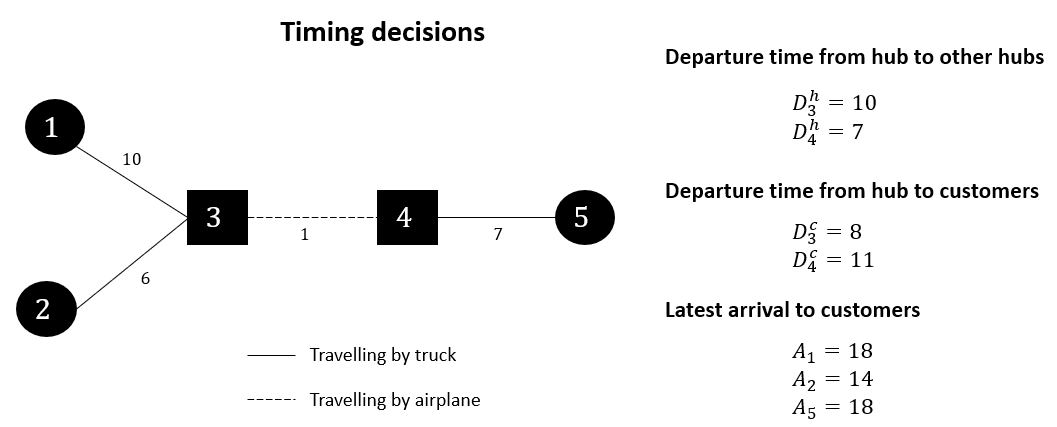
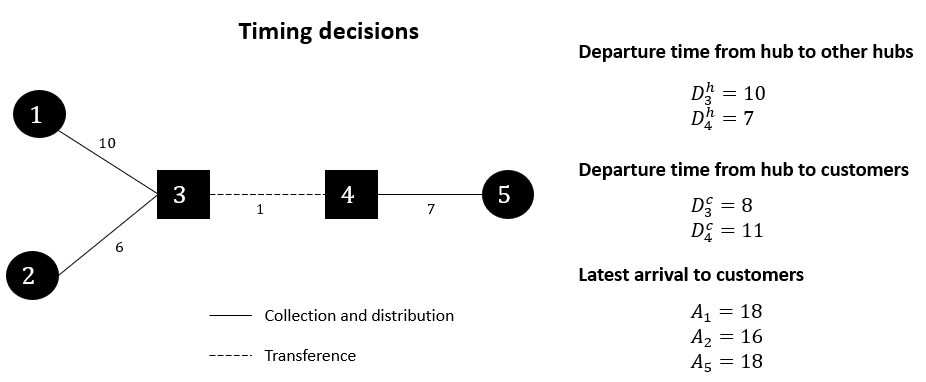
turkey network ready

diff --git a/_projects/07_network_design.md b/_projects/07_network_design.md
@@ -10,22 +10,95 @@ This is a personal project inspired by professor and friend Armin Lüer <https:/
 
 Repository here: <https://github.com/fjzs/turkey_network>
 
-## **1 Problem Definition**
-Hubs location problems fall within the broad category of network design problems. A hub is tipically used passenger
-transportaion, cargo industry, mail delivery (before e-mail was invented though), among others. The role of a hub is to
-consolidate the flow from multiple sources to leverage economies of scale in the transportation.
+## **1 Introduction**
+
+##### **1.1 What is a hub location problem?**
+Hubs location problems fall within the broad category of network design problems, where a private or public firm has the task of producing/moving and/or delivering its products efficiently to its customer through some facilities. In particular, a hub is a type of facility used to consolidate the flow from multiple sources to leverage economies of scale in the transportation. These are used in multiple situations, such as in passenger transportation :walking: (both in land and air), cargo :truck:, postal mail delivery :mailbox: (before e-mail was invented though), public services :fire_engine::police_car::ambulance:, and more.
+
+In this project there are 3 types of arcs where different logistic activities occur: collection, transference and distribution, which you can see in the next figure. I am going to assume that small trucks are used for collection and distribution activities, and that big and faster trucks are used for transference activities.
+
+<div class="row"><div class="col-sm mt-3 mt-md-0 text-center">
+    {%
+        include figure.html path="assets/img/network_design/arcs.png" 
+        class = "img-fluid rounded z-depth-1"
+        width = 700
+        caption = "This hub location problem contains 3 types of arcs. Collection is related to the delivery of cargo from origin nodes to hubs. Transference is related to the movement of cargo between hubs. Distribution is related to the delivery of cargo from hubs to destination hubs. In the transference arc is where the economy of scale is achieved, both in speed and cost by a fixed factor."
+    %}
+</div></div>
 
 
-## **2 Methodology**
+##### **1.2 Characteristics of our problem**
+A freight cargo company wants to enter to the Turkey cargo market, providing service to all the 81 provinces in the country. We assume there are other companies in the market, and so to compete properly, this new company will provide a guaranteed time delivery service for all origin-destination pairs. To do this it will localize some hubs, assign cities to hubs and determine which hubs are going to be connected to each other. The demand is given by all pairs of origin-destination cities, and the proposed network has to comply with:
+* Cargo must be transported through hubs, in other words, it is not allowed to transport directly between nodes that are not hubs.
+* There is no capacity constraints in the hubs or in the arcs.
+* Each origin-destination flow must pass through at least 1 and maximum 2 hubs.
+* Each customer must be assigned to a single hub for simplicity of management.
+* The latest arrival time to from every origin to every destination has to be at most $$\beta$$ hours.
+* Every hub, before transporting cargo to other hubs, must wait for all its assignated customers to bring their cargo to consolidate. In other words, the departuring time of a hub when going to other hub is equivalent to the latest arrival of cargo from its assignated customers.
+* Every hub, before delivering cargo to its customers, must wait for all incoming cargo from other hubs to consolidate. In other words, the departuring time of a hub when going to its customers is equivalent to the latest arrival of cargo from other hubs.
+* There is no time needed to consolidate cargo.
+* The demand is fixed and inelastic to the service level offered.
+* For simplicity, I will assume that only the top $$k=20$$ largest provinces are available to locate hubs.
 
-## **3 Optimization Model**
+The costs to consider are:
+* Fixed cost of locating a hub in a particular province.
+* Fixed cost of establishing a connection between 2 hubs or between a province and a hub.
+* Cost of transporting cargo on each arc of the network (collection, transfer and distribution) per unit of distance.
+* Economy of scale factor $$\alpha$$ of using large and specialized trucks between hubs (for instance 10% cheaper and 10% faster).
+
+Turkey is an interesting case of study because:
+* There are no clear simmetries in the demand (north v/s south, or east v/s west)
+* There are big nodes of supply/demand distributed across the country (the biggest node, for instance, is Istanbul located in the northwest)
+* The country has a reasonable infrastructure for land transportation, allowing the possibility of every province to be connected to the network.
+
+In the following picture you can see the 81 provinces of Turkey.
+<div class="row"><div class="col-sm mt-3 mt-md-0 text-center">
+    {%
+        include figure.html path="assets/img/network_design/turkey_provinces.png" 
+        class = "img-fluid rounded z-depth-1"
+        width = 700
+        caption = "Source: Tan and Kara (2007)"
+    %}
+</div></div>
+
+I discretized this continous representation into a set of nodes, all connected to each other by the highways of the country. Each node representing the province is located at the major city of that province. In the following diagram you can see the discretized representation of the country:
+
+<div class="row"><div class="col-sm mt-3 mt-md-0 text-center">
+    {%
+        include figure.html path="assets/img/network_design/turkey_map.png" 
+        class = "img-fluid rounded z-depth-1"
+        width = 700
+        caption = "This illustration shows the borders of Turkey along with its 81 major provinces. The size of each node is proportional to the population of that province. Source: own work"
+    %}
+</div></div>
 
 
-### Sets
+##### **1.3 Where does the data come from?**
+* The distances between each pair of provinces was taken from Tan and Kara (2007), although Google Maps could have been used as well.
+* The economy of scale factor $$\alpha$$ was taken by a survey from Tan and Kara (2007), where they interviewed major freight companies in Turkey. The value is roughly 0.9 (although they only used it for discounting the transportation cost, and I am going to use it to decrease the speed of trucks as well)
+* The flow between each pair of provinces is given by Çetiner et al. (2007), which is proportional to the population of both provinces
+* The fixed cost for stablishing a link between hubs was taken by Alumur et al (2009), which is proportional to the distance and inversely proportional to the flow between them.
+* The fixed cost of stablishing a hub was taken from Alumur et al (2009).
+
+
+##### **1.4 Questions to answer**
+The purpose of this project is to answer these questions:
+* What is the optimal network design and cost structure given a time delivery service $$\beta$$?
+* How does that solution change as $$\beta$$ changes?
+* How does that solution change as the economy of scale factor $$\alpha$$ changes?
+
+
+## **2 Optimization Model**
+The optimization model I designed is the fusion between Tan and Kara (2006) "A Hub Covering Model for Cargo Delivery Systems" and Ernst and Krishnamoorthy (1996) "Efficient algorithms for the uncapacitated single allocation p-Hub median problem". It is also related to Alumur et al (2009) "The design of single allocation incomplete hub networks".
+* Tan and Kara (2006) take care of the delivery time modelling without transportation and fixed costs.
+* Ernst and Krishnamoorthy (1996) take care of the network modelling without service levels.
+
+I modelled the problem as a **multicommodity flow problem**, where each origin is a commodity. Just as in Alumur et al (2009), this model has $$O(n^2)$$ binary variables and $$O(n^3)$$ continuous variables, but I don't fix the number of hubs to locate or the number of links to stablish a priori as Alumur et al (2009) did.
+
+##### **2.1 Sets**
 $$N$$: set of nodes
 
-
-### Parameters
+##### **2.2 Parameters**
 $$w_{ij}$$: flow from node $$i$$ to node $$j$$ (boxes)
 
 $$s_i = \sum_{j \in N}w_{ij}$$: supply of node $$i$$ (boxes)
@@ -34,24 +107,20 @@ $$h_i$$: fixed cost of locating a hub at node $$i$$ ($)
 
 $$d_{ij}$$: distance between nodes $$i$$ and $$j$$ (km)
 
-$$v_t$$: velocity of trucks (km/h)
+$$v$$: velocity of trucks (km/h)
 
-$$v_p$$: velocity of airplanes (km/h)
-
-$$tt_{ij} = d_{ij} / v_t$$: travel time by truck between nodes $$i$$ and $$j$$ (h)
-
-$$tp_{ij} = d_{ij} / v_p$$: travel time by plane between nodes $$i$$ and $$j$$ (h)
+$$t_{ij} = d_{ij} / v$$: travel time by regular (in collection and distribution activities) truck between nodes $$i$$ and $$j$$ (h)
 
 $$f_{ij}$$: fixed cost of using arc $$(i,j)$$ ($)
 
 $$c$$: unit cost of transporting 1 box 1 km ($/box-km)
 
-$$\alpha$$: cost factor of transfer activities between hubs (unitless)
+$$\alpha$$: economy of scale factor in transfer activities between hubs (unitless)
 
 $$\beta$$: maximum time delivery between any origin and destination (h)
 
 
-### Variables
+##### **2.3 Variables**
 $$Z_{ik}$$: 1 if node $$i$$ is assigned to hub $$k$$ else 0, $$\forall i \in N, k \in N$$ (unitless)
 
 $$F_{ik}$$: flow from node $$i$$ to hub $$k$$, $$\forall i \in N, k \in N$$ (boxes)
@@ -69,7 +138,7 @@ $$D^{c}_k$$: departure time from hub $$k$$ to transport cargo to customers, $$\f
 $$A_j$$: latest arrival time to destination $$j$$, $$\forall j \in N$$ (h)
 
 
-### Objective Function
+##### **2.4 Objective Function**
 Location hubs cost:
 
 $$\sum_{i \in N} Z_{ii} \cdot h_i$$
@@ -92,7 +161,7 @@ Transportation cost (distribution activities):
 $$\sum_{i \in N}\sum_{l \in N}\sum_{j \in N} X_{ilj} \cdot d_{lj}\cdot c$$
 
 
-### Constraints
+##### **2.5 Constraints**
 
 (1) Assign every node to a single hub:
 
@@ -150,22 +219,22 @@ $$2R_{kl} \leq Z_{kk} + Z_{ll}$$
 $$\forall k \in N, l \in N: k \neq l$$
 
 
-(9) Plane departuring from hub $$k$$ to other hubs must wait for cargo from customers:
+(9) Truck departuring from hub $$k$$ to other hubs must wait for cargo from customers:
 
-$$D^{h}_k \geq tt_{ik} \cdot Z_{ik}$$
+$$D^{h}_k \geq t_{ik} \cdot Z_{ik}$$
 
 $$\forall i \in N, k \in N: i \neq k$$
     
 
-(10) Truck departure time from hub $$l$$ to its customers must wait for incoming air cargo from other hubs:
+(10) Truck departure time from hub $$l$$ to its customers must wait for incoming cargo from other hubs:
 
 Original non-linear:
 
-$$D^{c}_l \geq (D^{h}_k + tp_{kl}) \cdot R_{kl}$$
+$$D^{c}_l \geq (D^{h}_k + t_{kl} \cdot \alpha) \cdot R_{kl}$$
 
 When linearized:
 
-$$D^{c}_{l} \geq D^{h}_k + tp_{kl} - M(1 - R_{kl})$$
+$$D^{c}_{l} \geq D^{h}_k + t_{kl} \cdot \alpha - M(1 - R_{kl})$$
 
 Where $$M$$ is a large enough number, in this case $$M = \beta$$.
 
@@ -174,20 +243,20 @@ $$\forall k \in N, l \in N$$
 
 (11) Truck departure time from hub $$l$$ to its customer $$j$$ must wait from all customers to consolidate cargo (this is required for the case when a single hub is located to the network).
 
-$$D^{c}_{l} \geq tt_{jl} \cdot Z_{jl}$$
+$$D^{c}_{l} \geq t_{jl} \cdot Z_{jl}$$
 
 $$\forall j \in N, l \in N$$
 
 
-(12) Latest arrival to customer $$j$$ depends on the latest airplane arriving to its assigned hub $$l$$:
+(12) Latest arrival to customer $$j$$ depends on the latest truck arriving to its assigned hub $$l$$:
 
 Original non-linear:
 
-$$ A_j \geq (D^{c}_{l} + tt_{lj}) \cdot Z_{jl}$$
+$$ A_j \geq (D^{c}_{l} + t_{lj}) \cdot Z_{jl}$$
 
 When linearized:
 
-$$ A_j \geq D^{c}_{l} + tt_{lj} - M(1 - Z{jl})$$
+$$ A_j \geq D^{c}_{l} + t_{lj} - M(1 - Z{jl})$$
 
 Where $$M$$ is a large enough number, in this case $$M = \beta$$.
 
@@ -201,7 +270,7 @@ $$A_j \leq \beta$$
 $$\forall j \in N$$ 
 
 
-### Toy example to visualize variables relations
+##### **2.6 Toy example to visualize variables relations**
 
 Let's look at a little example of **5 nodes** to understand visually how they interact. We will take a look at 3 types of variables: hub decisions, flow decisions and timing decisions. In the figure below we start with the hub decisions.
 
@@ -225,16 +294,109 @@ Now we can move forward with flow decisions. Remember the flow is modeled as a m
     %}
 </div></div>
 
-Finally we can see the timing decisions in the next figure. From this example we can conclude that the fastest delivery time is 18 time units.
+Finally we can see the timing decisions in the next figure. From this example we can conclude that the latest delivery service level time is 18 time units.
 
 <div class="row"><div class="col-sm mt-3 mt-md-0 text-center">
     {%
         include figure.html path="assets/img/network_design/example_timing.png" 
         class = "img-fluid rounded z-depth-1"
         width = 1500
-        caption = "In this diagram you can see how the timings are organized. Recall that the freight between non-hub nodes and hubs is supposed to be done in a cheap and slow mode (like trucks), and the freight between hubs in an expensive and fast mode (like airplanes). The number on each arc represent the time needed to traverse it by the defined transportation mode."
+        caption = "In this diagram you can see how the timings are organized. Recall that the freight between non-hub nodes and hubs is supposed to be done in regular trucks, and the freight between hubs in cheaper and faster trucks. The number on each arc represent the time needed to traverse it."
     %}
 </div></div>
     
+
+## **3 Implementation**
+In this section I'll take about the software side of this project and the hardware that I used to run it.
+
+#### **3.1 Software**
+
+The following Figure shows a simplified view of system architecture.
+* Data: is the module responsible for reading the files containing the information of this problem.
+* ProblemData: exposes an API for the Models module, encapsulating all the data needed for this optimization problem.
+* Models: this module has 1 or more optimization models that uses the ProblemData API to solve the problem. Currently it is coupled with **Gurobi**.
+* Utils: this module is responsible for saving a solution into a file and to load it as well into memory.
+* UI: this module is responsible for reading a solution from a file and presenting it to the user.
+
+<div class="row"><div class="col-sm mt-3 mt-md-0 text-center">
+    {%
+        include figure.html path="assets/img/network_design/architecture.png" 
+        class = "img-fluid rounded z-depth-1"
+        width = 600
+        caption = "System architecture: each blue element is a module or package in the application. The black arrows represent how the information flows through them and which modules are connected to each other."
+    %}
+</div></div>
+
+
+#### **3.2 Hardware**
+I ran all the experiments in my personal laptop:
+* OS: Windows 11
+* Processor: 12th Gen Intel Core i5 12 Cores
+* RAM: 16 Gb
+
+## **4 Results**
+
+The first question to answer is: **how does the solution change as $$\beta$$ changes?** To do this I set up 3 values for $$\beta=30,34,40$$ hours and solved to optimality all these instances. In the next figure you will see the optimal network for each value, and in the next one you will see the optimal cost structure for reach solution. 
+
+<div class="row"><div class="col-sm mt-3 mt-md-0 text-center">
+    {%
+        include figure.html path="assets/img/network_design/plots_beta.png" 
+        class = "img-fluid rounded z-depth-1"
+        width = 600
+        caption = "This figure shows the optimal network structure for each value of beta, the service level (max time delivery between each pair of origin and destination provinces). The size of each node is proportional to its population. Blue nodes represent hubs, green and red dots represent non-hubs, and green dots are potential hubs location that were not chosen as hubs by the model."
+    %}
+</div></div>
+
+<div class="row"><div class="col-sm mt-3 mt-md-0 text-center">
+    {%
+        include figure.html path="assets/img/network_design/exp_beta.png" 
+        class = "img-fluid rounded z-depth-1"
+        width = 800
+        caption = "On each color you can see the cost component in the objective function"
+    %}
+</div></div>
+
+Couple of points from these 2 figures:
+* The model is solving for all the 81 provinces in Turkey
+* Current parameter of economy of scale factor is $$\alpha=0.8$$
+* The best service level achievable is $$\beta=30$$, and the network required 6 hubs, all connected to each other to satisfy this requirement.
+* At $$\beta=40$$ there is no need for economies of scale, the service level constraint is not activated. But as we start to increase it, of course, the need for economies of scale (in speed) is required with an increase in cost of roughly 20%.
+* This analysis could be useful for a company when evaluating the cost required to provide a service level in the network. For instance, it is rougly twice as expensive to provide a service level of $$\beta=30$$ v/s $$\beta=40$$. And the current operational structure does not allow for this service level to be faster.
+
+
+The second question to answer is: **how does the solution change as $$\alpha$$ changes?** In other words, what is the economic and operational effect of improving the current technology in hub-to-hub trucks when maintaining the service level $$(\beta=30)$$? Just as before, I set up 3 values for $$\alpha=0.6, 0.7, 0.8$$ and solved to optimality. In the next 2 figures you will see the optimal network and cost structure 
+for each instance.
+
+<div class="row"><div class="col-sm mt-3 mt-md-0 text-center">
+    {%
+        include figure.html path="assets/img/network_design/plots_alpha.png" 
+        class = "img-fluid rounded z-depth-1"
+        width = 600
+        caption = "This figure shows the optimal network structure for each value of alpha, the economy of scale factor (how faster and cheaper is the transportation between hubs). The size of each node is proportional to its population. Blue nodes represent hubs, green and red dots represent non-hubs, and green dots are potential hubs location that were not chosen as hubs by the model."
+    %}
+</div></div>
+
+<div class="row"><div class="col-sm mt-3 mt-md-0 text-center">
+    {%
+        include figure.html path="assets/img/network_design/exp_alpha.png" 
+        class = "img-fluid rounded z-depth-1"
+        width = 800
+        caption = "On each color you can see the cost component in the objective function"
+    %}
+</div></div>
+
+Couple of points from these 2 figures:
+* The case where $$\alpha=0.8$$ is the same network as in the previous example with $$\beta=30$$, in other words, this is our base case. 
+* Notice how the network simplifies (number of hubs and links between them) as $$\alpha$$ decreases.
+* The major reduction in cost is given when going from $$\alpha=0.8$$ to $$\alpha=0.7$$, which implies a cost reduction from $3,500 to $2,250 (35%). This is because the number of hubs required decreased (which was the major component of the cost).
+* This analysis could be useful for a company when evaluating the impact of a new technology providing faster or cheaper transport when consolidating cargo.
+
+
+
+## **5 Extensions**
+This problem exhibits several dimensions to be extended, for instance:
+- **Faster solution methods**: because we have $$O(n^2)$$ binary variables and $$O(n^3)$$ continuous variables, a descomposition approach such as Benders could be applied here.
+- **More complex operational design**: capacity constraints could be added, elasticity in the demand and different service levels among pairs of origin-destination
+- **Dynamic models instead of static**: the decision of localizing a facility is a strategic decision which should be evaluated in financial terms for a long term horizon. This could be added as well, with a demand forecast and with the financial characteristic for this company. Also, the fixed costs in a dynamic model could weight less because of the potential gains in operational expenses in the future.
 
     
